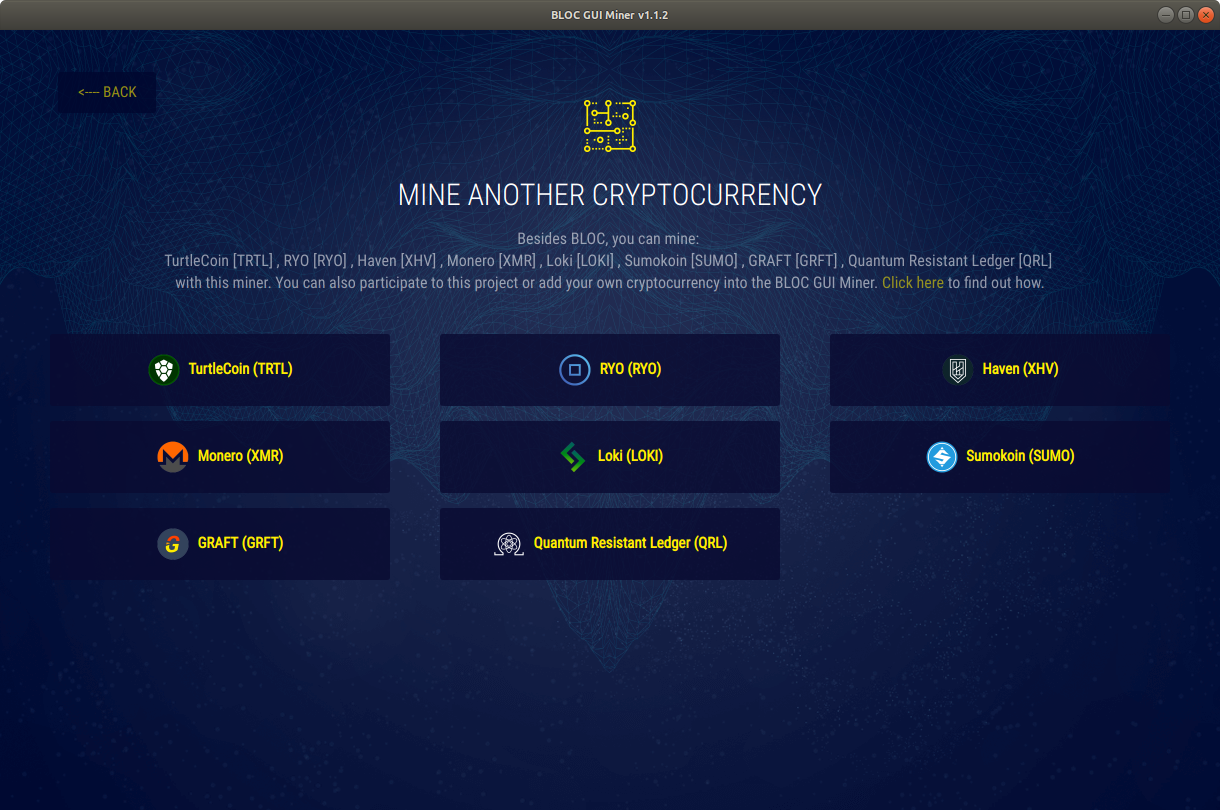
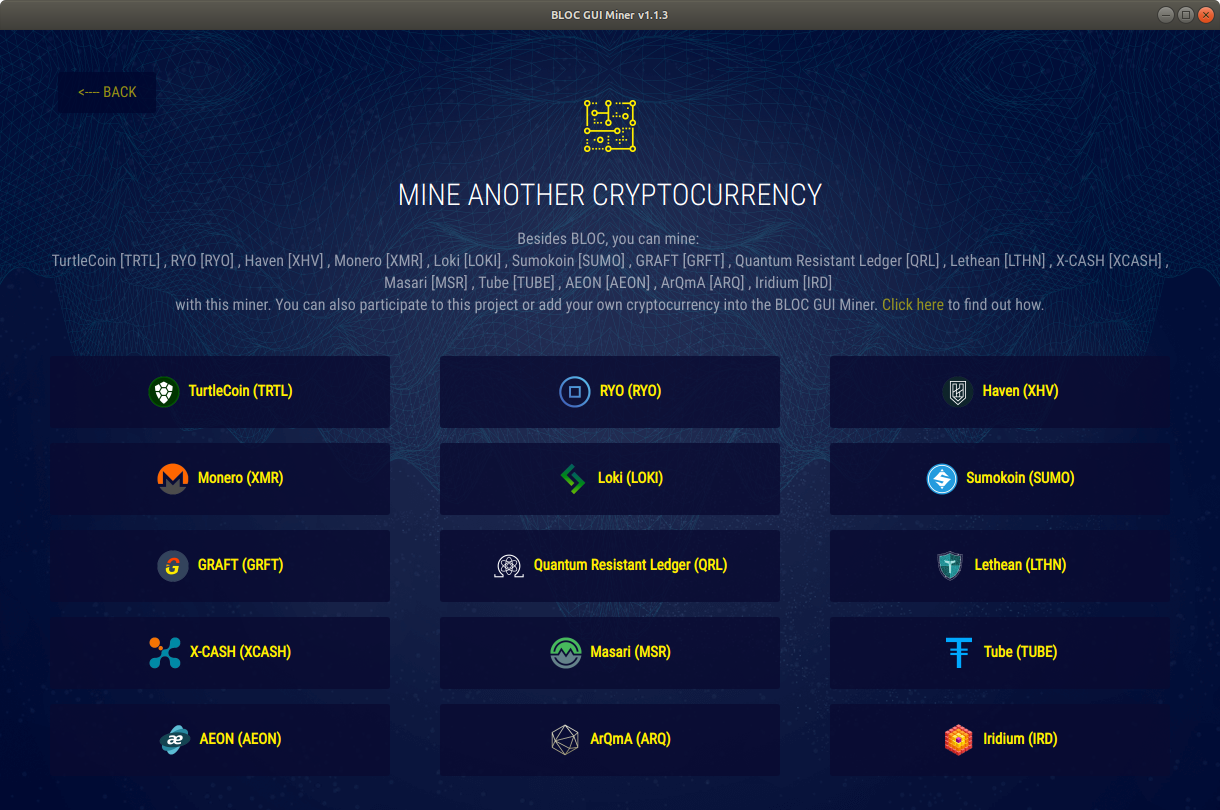
Adding Tutorial how to mine Lethean

diff --git a/docs/mining/BLOC-GUI-Miner-mining-lethean.md b/docs/mining/BLOC-GUI-Miner-mining-lethean.md
@@ -1,18 +1,14 @@
-# **How to mine Conceal Network (CCX) with BLOC GUI Miner**
+# **How to mine Lethean (LTHN) with BLOC GUI Miner**
 
-[Conceal Network](https://conceal.network) Conceal.Network is a decentralized blockchain bank, with deposits and investments paying interest rates, without involvement of financial institutions, powered by 100% open source code.
-
-**Note**: Mining Conceal Network only works with XMRSTAK.
+[Lethean (LTHN)](https://lethean.io) allow users to quickly and seamlessly use VPN services by choosing an exit node that best suits their needs. Simply download the wallet, add Lethean, and visit the integrated VPN marketplace to begin using the VPN services.
 
 [BLOC GUI Miner](../mining/BLOC-GUI-Miner.md) is a beautiful, easy to use, Graphical User interface for mining multiple cryptocurrencies based on cryptonote. The BLOC GUI Miner is easy to use and makes you getting started with mining cryptocurrency on Windows, MacOS and Linux in no time.
 
 It is aimed at getting people that have never tried mining before with a focus on accessibility, security and simplicity.
 
-![BLOC GUI Miner Mining Conceal Network (CCX)](images/BLOC-GUI-MINER/BLOC-GUI-Miner-v1.1.2-mining-CCX.jpg)
+![BLOC GUI Miner Mining Lethean (LTHN)](images/BLOC-GUI-MINER/BLOC-GUI-Miner-v1.1.2-mining-XHV.jpg)
 
 ## **Install BLOC GUI Miner**
-
-- XMRRIG do not support mining for CCX. You will need to use the BLOC GUI Miner with the XMR-STAK bundle built-in.
 
 Some antivirus packages detect cryptocurrency miners as malware and will remove the miner as soon as it's started. In order for the BLOC GUI miner to function, you'll need to exclude the miner from being scanned by your antivirus software.
 
@@ -22,44 +18,27 @@ Download and Install:
 - From [GitHub](https://github.com/furiousteam/GUI-miner/releases/latest)
 - Follow [instructions for your system](../mining/BLOC-GUI-Miner-using.md) Windows, macOS or Linux 
 
-## **PRE Install instruction for macOS with XMR-STAK**
+## **Mining Lethean (LTHN)**
 
-Some libraries are required to be able to use XMR-STAK on macOS.
-
-- Search for terminal on your mac application and open it
-- Type: ```xcode-select --install```
-- Then: ```ruby -e "$(curl -fsSL https://raw.githubusercontent.com/Homebrew/install/master/install)"```
-- Then: ```brew doctor```
-- Then the last one. Copy and paste:
-
-```
-brew install hwloc libmicrohttpd gcc openssl cmake
-cmake . -DOPENSSL_ROOT_DIR=/usr/local/opt/openssl -DCUDA_ENABLE=OFF -DOpenCL_ENABLE=OFF
-make install
-```
-You should now be ready to use the BLOC GUI Miner.
-
-## **Mining Conceal Network (CCX)**
-
-It is now very easy and fun to mine Conceal Network (CCX) using the BLOC GUI Miner.
+It is now very easy and fun to mine Lethean (LTHN)using the BLOC GUI Miner.
 
 ### **Launch the BLOC GUI Miner**
 
 Launch the BLOC GUI Miner and select **I want to mine other cryptocurrencies**
 
-![BLOC GUI Miner Mining Conceal Network (CCX)](images/BLOC-GUI-MINER/BLOC-GUI-Miner-v0.0.3-miner-setup.png)
+![BLOC GUI Miner Mining Lethean (LTHN)](images/BLOC-GUI-MINER/BLOC-GUI-Miner-v0.0.3-miner-setup.png)
 
-### **Select Conceal Network (CCX)**
+### **Select Lethean (LTHN)**
 
-Select Conceal Network (CCX)
+Select Lethean (LTHN)
 
-![Select Conceal Network (CCX)](images/BLOC-GUI-MINER/XMR-STAK.png)
+![Select Lethean (LTHN)](images/BLOC-GUI-MINER/XMRIG.png)
 
-### **Conceal Network (CCX) Address**
+### **Lethean (LTHN)Address**
 
-Enter your Conceal Network (CCX) wallet address. It must start with **ccx** and click **OK, NEXT STEP**.
+Enter your Lethean (LTHN)wallet address. It must start with **hvx** and click **OK, NEXT STEP**.
 
-![Enter Conceal Network (CCX) wallet address](images/BLOC-GUI-MINER/ccx-address.png)
+![Enter Lethean (LTHN) wallet address](images/BLOC-GUI-MINER/lethean-address.png)
 
 ### **Choose Mining Pool**
 
@@ -67,7 +46,7 @@ We suggest you to select the nearest mining pool following your location for the
 
 Select your favorite mining pool from the list and click **OK, NEXT STEP**.
 
-![Choose Conceal Network (CCX) mining pool](images/BLOC-GUI-MINER/ccx-pool.png)
+![Choose Lethean (LTHN) mining pool](images/BLOC-GUI-MINER/lethean-pool.png)
 
 ### **Antivirus**
 
@@ -87,13 +66,13 @@ BLOC GUI Miner will auto configure your mining hardware with the best capabiliti
 
 ### **Mining**
 
-Congratulations ! You are mining **Conceal Network (CCX)** cryptocurrency. This is the overview of the BLOC GUI Miner. You can see the complete informations of your mining activity and some more details about the BLOC ecosystem.
+Congratulations ! You are mining **Lethean (LTHN)** cryptocurrency. This is the overview of the BLOC GUI Miner. You can see the complete informations of your mining activity and some more details about the BLOC ecosystem.
 
 - You can change the mining pool by clicking here. It will open the settings page.
 
-![BLOC GUI Miner Mining BLOC](images/BLOC-GUI-MINER/14-MINING-CCX.png)
+![BLOC GUI Miner Mining BLOC](images/BLOC-GUI-MINER/lethean-mining.png)
 
-### **Settings** <a name="Conceal Network (CCX)-settings"></a>
+### **Settings** <a name="Lethean (LTHN)-settings"></a>
 
 The settings page allow you to customize the miner settings:
 
@@ -101,21 +80,21 @@ The settings page allow you to customize the miner settings:
 - Modify your wallet mining address
 - Choose a different mining pool
 
-![Conceal Network (CCX) Miner settings](images/BLOC-GUI-MINER/ccx-settings.png)
+![Lethean (LTHN) Miner settings](images/BLOC-GUI-MINER/lethean-settings.png)
 
 - Select another coin to mine from the selector
     * Enter your wallet address
     * Choose your mining pool
 
-![Conceal Network (CCX) Settings another coin](images/BLOC-GUI-MINER/ccx-settings2.png)
+![Lethean (LTHN) Settings another coin](images/BLOC-GUI-MINER/lethean-settings2.png)
 
 Once you have made the change click the button **CLICK HERE TO SAVE THE SETTINGS**.
 
 ### **Help**
 
-Do you need more help ? Make sure you visit this section to find out more about Conceal Network (CCX), join the community, checkout the latest updates, watch videos and much more.
+Do you need more help ? Make sure you visit this section to find out more about Lethean (LTHN), join the community, checkout the latest updates, watch videos and much more.
 
-![Conceal Network (CCX) Help](images/BLOC-GUI-MINER/ccx-help.png)
+![Lethean (LTHN) Help](images/BLOC-GUI-MINER/lethean-help.png)
 
 ## **I have an issue not listed here**
 
